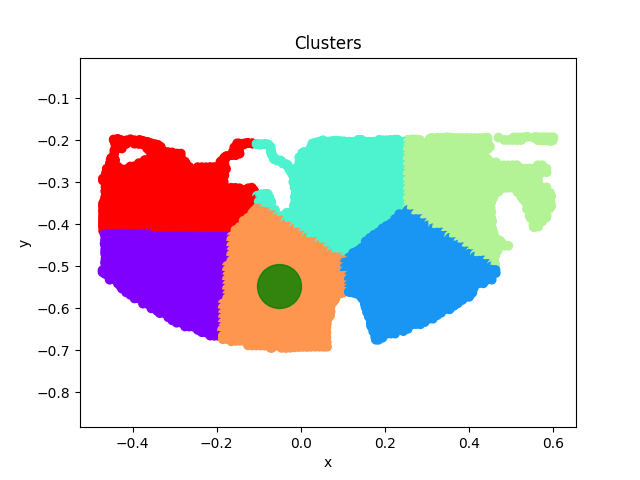
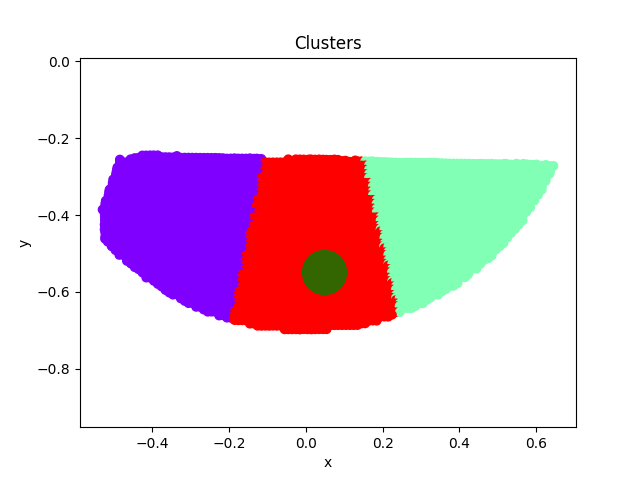
Demo TDP manipulation station

diff --git a/catkin_home/src/manipulation/pick_and_place/scripts/pick_and_place_server.py b/catkin_home/src/manipulation/pick_and_place/scripts/pick_and_place_server.py
@@ -432,7 +432,7 @@ class PickAndPlaceServer(object):
 
                 # heigh for place
                 self.place_height = depth #option 1
-                self.place_height = self.pick_height #option 2
+                #self.place_height = self.pick_height   #option 2
                 self.pub_pick_width.publish(width)
 
                 rospy.loginfo("Object dimensions: " + str(self.picked_object_dimensions))
@@ -593,7 +593,7 @@ class PickAndPlaceServer(object):
                 pose_st.pose = object_pose.pose
                 #pose_st.pose.position.z += self.picked_object_dimensions[2] + 0.07
                 rospy.loginfo("Planning with object added height: " + str(self.place_height))
-                pose_st.pose.position.z += self.place_height + 0.07
+                pose_st.pose.position.z += 0.10 + 0.07
                 #pose_st.pose.position.y -= 0.05
                 #face down
                 pose_st.pose.orientation = Quaternion(x=0.000001, y=0.707000, z=0.000001, w=0.707000)

diff --git a/catkin_home/src/manipulation/object_detector/src/Detection3DKmeans.cpp b/catkin_home/src/manipulation/object_detector/src/Detection3DKmeans.cpp
@@ -139,7 +139,7 @@ class Detect3DPlace
     int horizontal_prefix[50][50] = {0};
     int vertical_prefix[50][50] = {0};
     double selected_object_sz = 0.05; //meters
-    double kRobotRadiusLimit = 0.5; //meters
+    double kRobotRadiusLimit = 0.7; //meters
     double kMinRobotDistance = 0.2;
     double kXRobotRange = 0.3; //meters
     double kRobotXIndexLimit = kXRobotRange / selected_object_sz;
@@ -878,6 +878,12 @@ public:
 
     /** \brief PointCloud callback. */
     void cloudCB(const sensor_msgs::PointCloud2 &input){
+        ROS_INFO_STREAM("Clean octomap");
+        std_srvs::Empty clear_octomap_srv;
+        clear_octomap.call(clear_octomap_srv);
+        ros::topic::waitForMessage<sensor_msgs::PointCloud2>(POINT_CLOUD_TOPIC, nh_);
+        ros::topic::waitForMessage<sensor_msgs::PointCloud2>(POINT_CLOUD_TOPIC, nh_);
+
         ROS_INFO_STREAM("Received PointCloud");
         if (!ignore_moveit_){
             // Reset Planning Scene Interface

diff --git a/catkin_home/src/manipulation/object_detector/src/Clustering_Client.cpp b/catkin_home/src/manipulation/object_detector/src/Clustering_Client.cpp
@@ -40,7 +40,7 @@ int main(int argc, char **argv)
   // read pcl from file ~/.ros/pcl_table.pcd
   ROS_INFO("Reading pcl from file ~/.ros/pcl_achievable_cloud.pcd");
   pcl::PointCloud<pcl::PointXYZ>::Ptr cloud(new pcl::PointCloud<pcl::PointXYZ>);
-  pcl::io::loadPCDFile<pcl::PointXYZ>("/home/rbrgs-pc/.ros/pcl_achievable_cloud.pcd", *cloud);
+  pcl::io::loadPCDFile<pcl::PointXYZ>("/home/afr2903u/.ros/pcl_achievable_cloud.pcd", *cloud);
   // print one point from the cloud
   ROS_INFO("First point in the cloud: x=%f, y=%f, z=%f", cloud->points[0].x, cloud->points[0].y, cloud->points[0].z);
 

diff --git a/catkin_home/src/manipulation/object_detector/src/Detection3DPlace.cpp b/catkin_home/src/manipulation/object_detector/src/Detection3DPlace.cpp
@@ -822,8 +822,8 @@ public:
         for(auto const placing : found_placings){
             if(placing.first > max_weight){
                 max_weight = placing.first;
-                x_closests_av = placing.second.x - (selected_object_sz/grid_size)/4;
-                y_closests_av = placing.second.y - (selected_object_sz/grid_size)/4;
+                x_closests_av = placing.second.x - 3*(selected_object_sz/grid_size)/4;
+                y_closests_av = placing.second.y - 3*(selected_object_sz/grid_size)/4;
             }
         }
         

diff --git a/catkin_home/src/manipulation/object_detector/src/Clustering_Server.py b/catkin_home/src/manipulation/object_detector/src/Clustering_Server.py
@@ -194,7 +194,7 @@ class Clustering_Service:
 
             # save as file
             rospy.loginfo("Saving clusters as image")
-            plt.savefig('/home/rbrgs-pc/Desktop/Robocup-Home/clusters.png')
+            plt.savefig('/home/afr2903u/ws/Robocup-Home/clusters.png')
 
         rospy.loginfo("Returning centroid")
 
